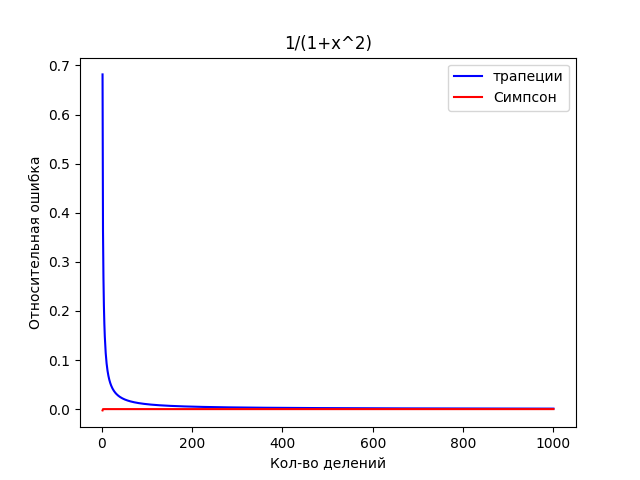
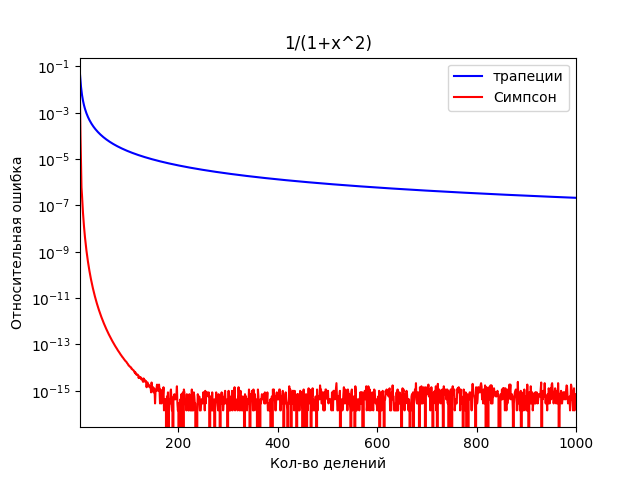
Made simple Trapeze function

diff --git a/task3.py b/task3.py
@@ -27,46 +27,34 @@ def trapeze_method(a, b, N, f, I) -> list:
     S[a,b]=(f(a) + f(b))/2 * (b - a)
     :return:
     """
-    errarr = []
+    # errarr = []
 
-    for n in range(2, N+1, 1):
-        xarr = np.linspace(a, b, n)
-        h = (b - a) / (n)  # xarr[1] - xarr[0]
-        yarr = [f(x) for x in xarr]
-        S = 0
-        for y in yarr:
-            S += y
-        S = (S - 0.5*(yarr[0] + yarr[len(xarr)-1]))*h
-        errarr.append(np.abs((I-S)/I))
-        print(f' Кол-во разбиений:\t {n} \t\t Значение интеграла:\t{S}')
+    # for n in range(2, N+1, 1):
+    #     xarr = np.linspace(a, b, n)
+    #     h = (b - a) / (n)  # xarr[1] - xarr[0]
+    #     yarr = [f(x) for x in xarr]
+    #     S = 0
+    #     for y in yarr:
+    #         S += y
+    #     S = (S - 0.5*(yarr[0] + yarr[len(xarr)-1]))*h
+    #     errarr.append(np.abs((I-S)/I))
+    #     print(f' Кол-во разбиений:\t {n} \t\t Значение интеграла:\t{S}')
+
+    errarr = []
+    for n in range(2, N + 1, 1):
+        h = (np.float64(b) - np.float64(a)) / np.float64(n)
+
+        s = 0
+        for i in range(1, n + 1):
+            left = np.float64(a) + np.float64(i - 1) * h
+            right = np.float64(a) + i * h
+
+            s += (right - left) * (f(left) + f(right)) / 2.
+
+        errarr.append(np.abs((I - s) / I))
+        print(f' Кол-во разбиений:\t {n} \t\t Значение интеграла:\t{s}')
 
     return errarr
-
-
-def trapeze(a, b, N, f, I) -> list:
-
-    err = []
-    for n in range(2, N+1, 1):
-        x = np.linspace(a, b, n**2 + 1)
-        y = np.array([f(i) for i in x])#np.vectorize(f(x))
-
-        s = (b - a) / (2 * (n**2)) * np.sum(y[1:] + y[:-1])
-        err.append(np.abs(I-s)/I)
-
-    return err
-
-
-def simpson(a, b, N, f, I) -> list:
-
-    err = []
-    for n in range(1, N+1, 1):
-        x = np.linspace(a, b, n**2 + 1)
-        y = np.array([f(i) for i in x])  # np.vectorize(f(x))
-
-        s = (b - a)/((n ** 2) * 3) * np.sum(y[0:-1:2] + 4*y[1::2] + y[2::2])
-        err.append(np.abs(I-s)/I)
-
-    return err
 
 
 def simpson_method(a, b, N, f, I) -> list:
@@ -88,7 +76,7 @@ def simpson_method(a, b, N, f, I) -> list:
 
             s += (f(left) + f(right) + 4. * f((right + left) / 2.)) * h / 6.
 
-        errarr.append(np.abs(I-s)/I)
+        errarr.append(np.abs((I-s)/I))
 
 
         # xarr = np.linspace(a, b, 2 * n)
@@ -110,7 +98,7 @@ def simpson_method(a, b, N, f, I) -> list:
 
 
 def run():
-    # plt.yscale('log')
+    plt.yscale('log')
     Integral1 = quad(func=f1, a=a1, b=b1)[0]
     Integral2 = quad(func=f2, a=a2, b=b2)[0]
     print(Integral1)
@@ -128,6 +116,7 @@ def run():
     #plt.ylim(0, 0.1)
     plt.plot(x, y1arr, label='трапеции', color=colors[0])
     plt.plot(x, y2arr, label='Симпсон', color=colors[1])
+    plt.xlim(2, N)
     plt.xlabel('Кол-во делений')
     plt.ylabel('Относительная ошибка')
     plt.title('1/(1+x^2)')

diff --git a/main.py b/main.py
@@ -9,5 +9,5 @@ import task7
 
 if __name__ == '__main__':
 
-    task4.run()
+    task3.run()
 
